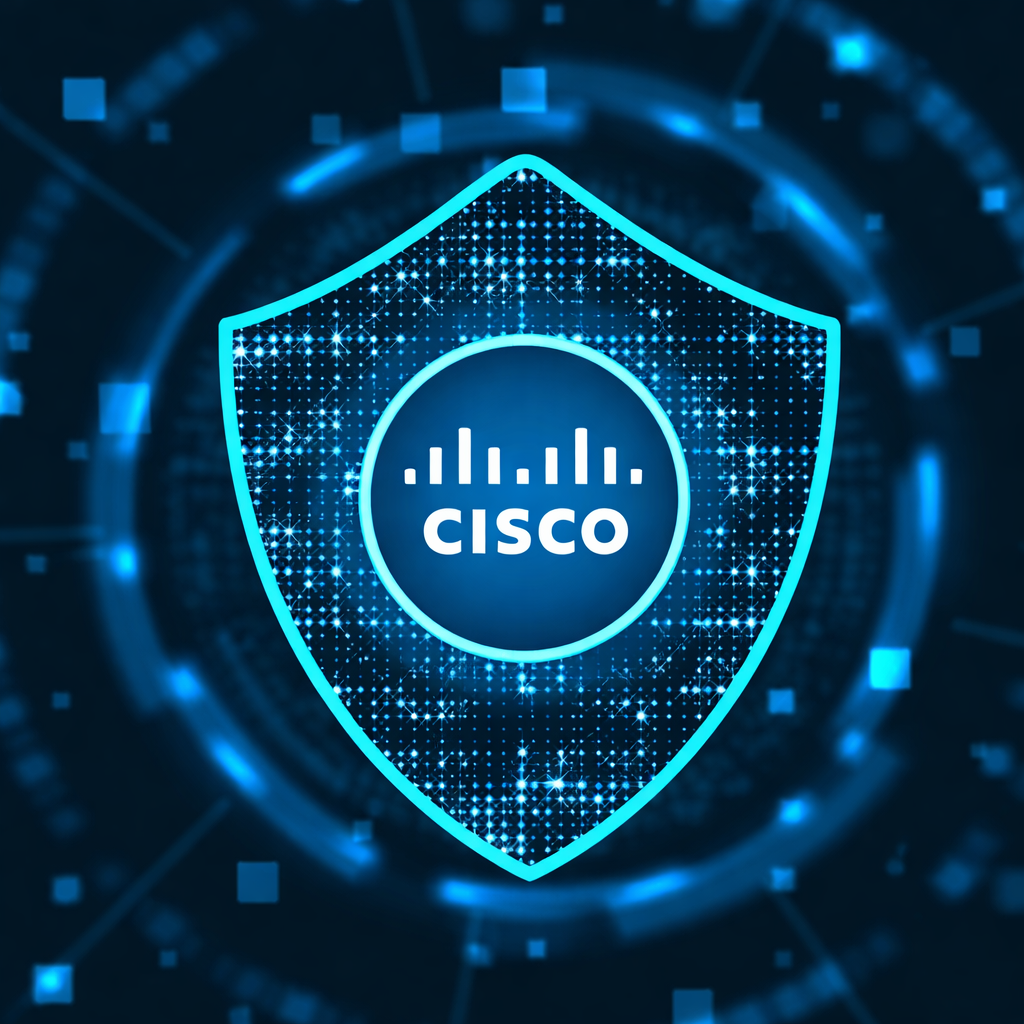
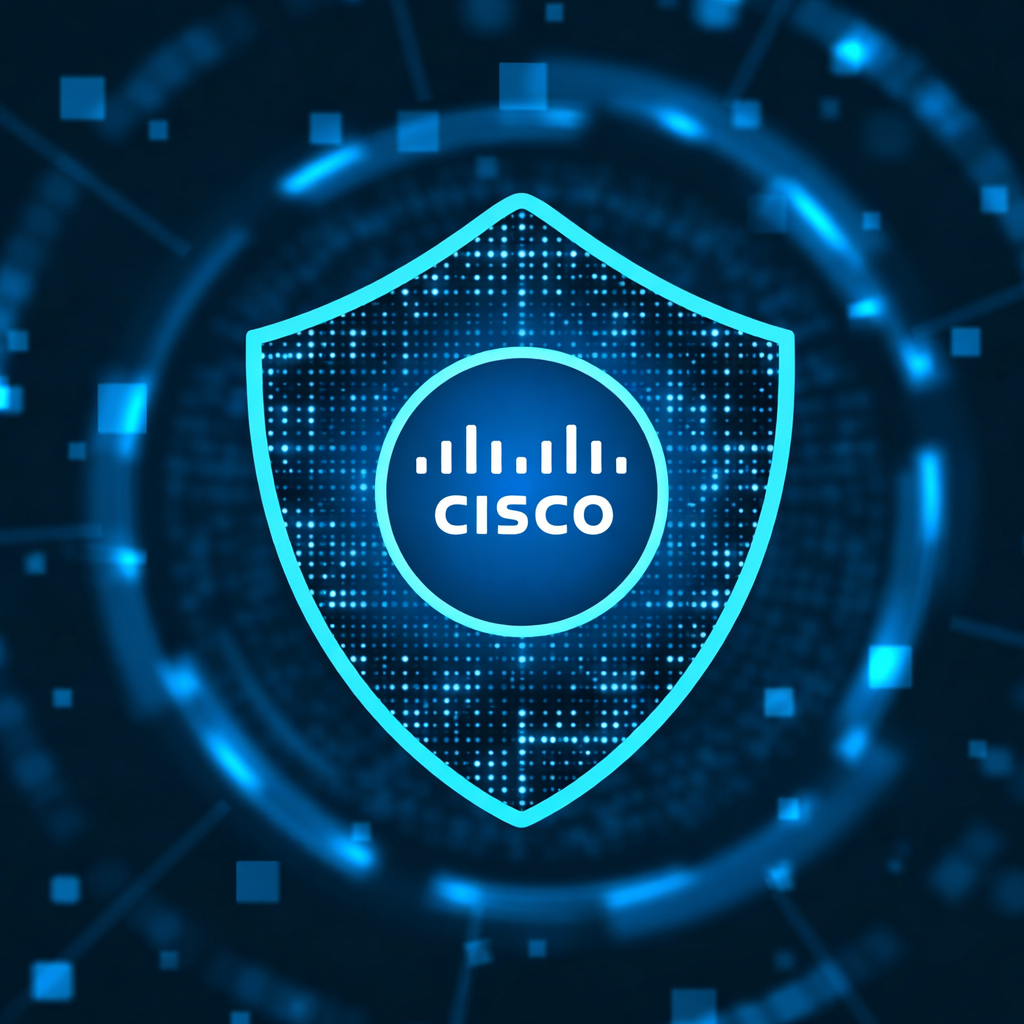
two new badges

diff --git a/src/App.jsx b/src/App.jsx
@@ -308,7 +308,7 @@ const Portfolio = () => {
       provider: 'Cisco Networking Academy',
       status: 'completed',
       url: 'https://www.credly.com/badges/98ddfe39-d619-4956-91f4-7d4080b0960f/public_url',
-      icon: '🌐'
+      image: 'ne.png'
     },
     {
       id: 4,
